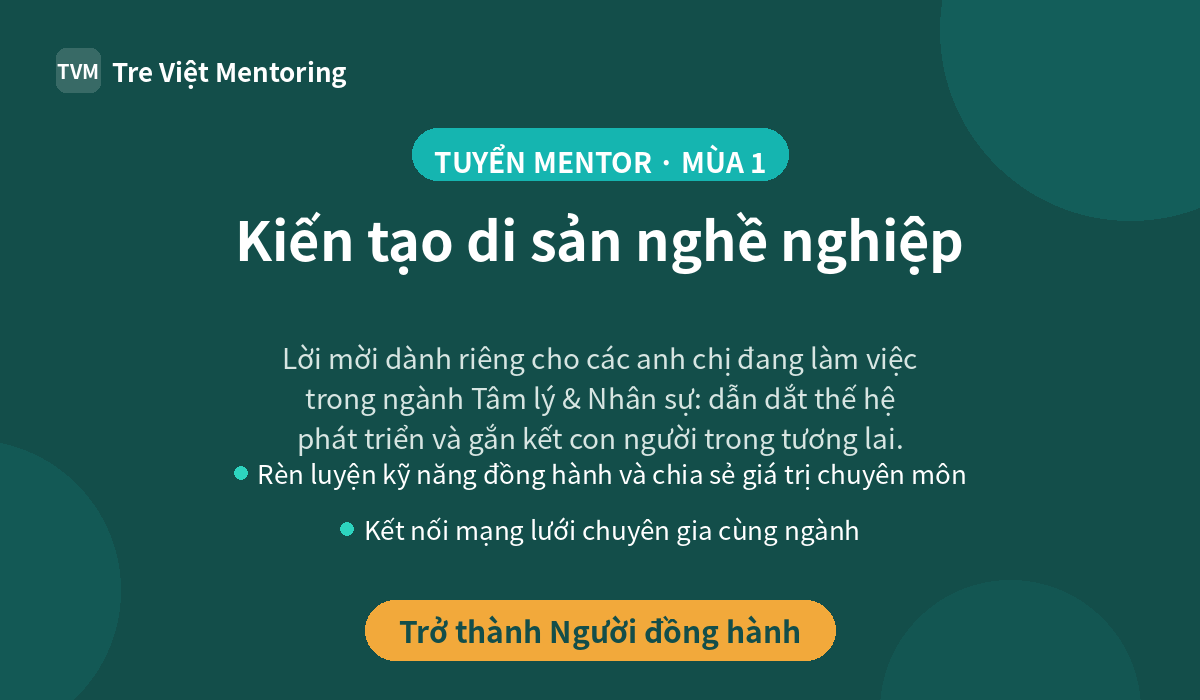
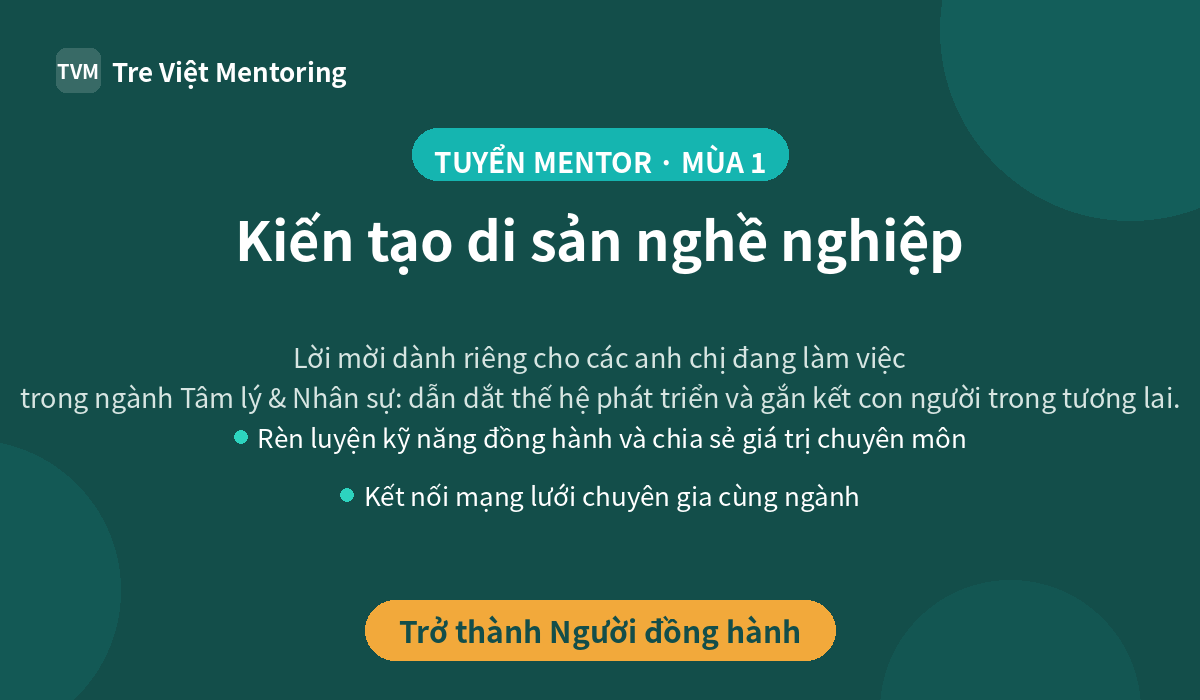
feat: poster mentor - lời mời 2 dòng, canh đều khoảng cách các dòng

Changed region(s): [[0.0308, 0.48, 0.9867, 0.78]]

diff --git a/scripts/make_recruit_images.py b/scripts/make_recruit_images.py
@@ -112,12 +112,12 @@ def make_mentor():
         (W//2, y), "Kiến tạo di sản nghề nghiệp",
         font=font(54, True), fill=WHITE, anchor="ma", align="center")
     y += 138
-    # dòng phụ
-    sub = "Lời mời dành riêng cho các anh chị đang làm việc\ntrong ngành Tâm lý & Nhân sự: dẫn dắt thế hệ\nphát triển và gắn kết con người trong tương lai."
-    d.multiline_text((W//2, y), sub, font=font(28, False), fill=MUTED,
-                     anchor="ma", align="center", spacing=7)
-    y += 152
-    # điểm chính (canh giữa cụm bullet + text)
+    # dòng phụ (lời mời) - 2 dòng cân đối
+    sub = "Lời mời dành riêng cho các anh chị đang làm việc\ntrong ngành Tâm lý & Nhân sự: dẫn dắt thế hệ phát triển và gắn kết con người trong tương lai."
+    d.multiline_text((W//2, y), sub, font=font(27, False), fill=MUTED,
+                     anchor="ma", align="center", spacing=8)
+    y += 116
+    # điểm chính (canh giữa cụm bullet + text), nhịp dòng đều với lời mời
     items = ["Rèn luyện kỹ năng đồng hành và chia sẻ giá trị chuyên môn",
              "Kết nối mạng lưới chuyên gia cùng ngành"]
     f_it = font(26, False)
@@ -128,7 +128,7 @@ def make_mentor():
         cy = y
         d.ellipse([start_x, cy-22, start_x+13, cy-9], fill=TEAL_BRIGHT)
         d.text((start_x+23, cy-16), it, font=f_it, fill=WHITE, anchor="lm")
-        y += 56
+        y += 58
     # nút CTA
     btn = "Trở thành Người đồng hành"
     fb = font(30, True)
